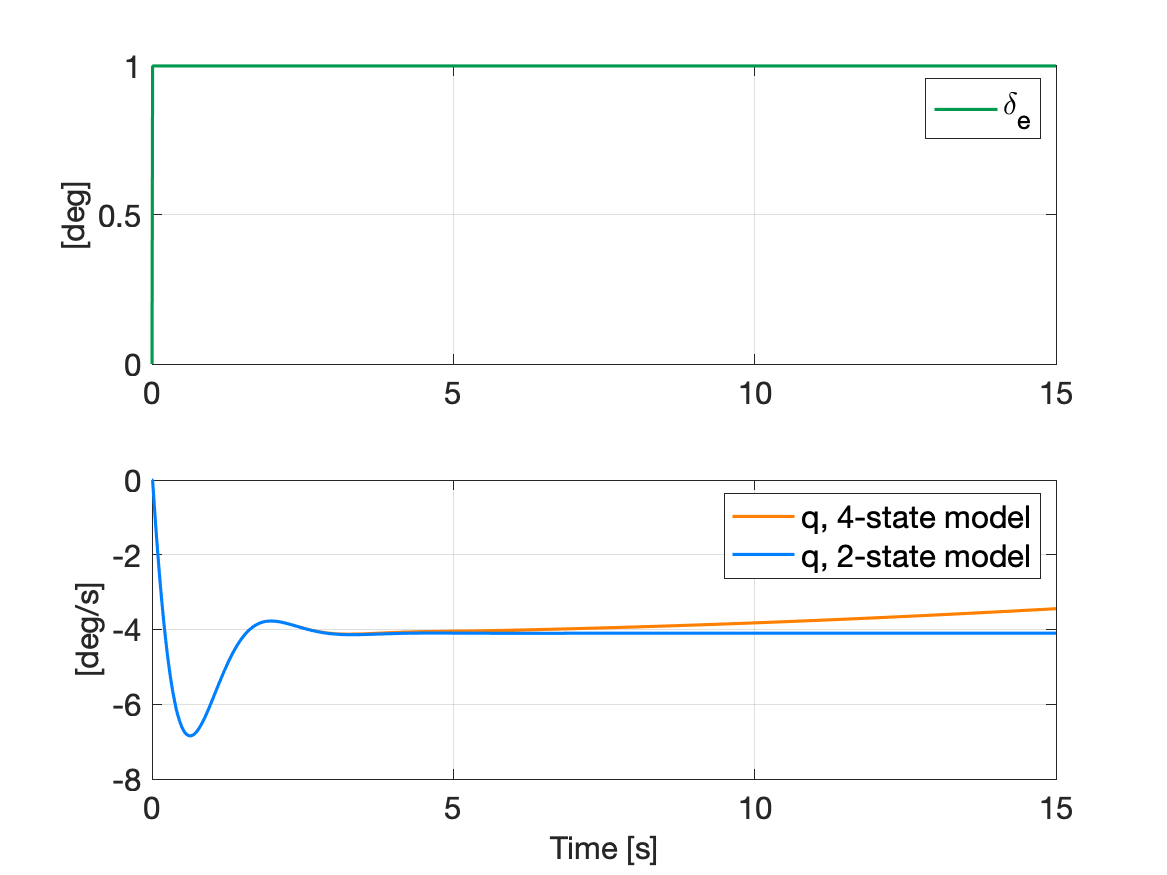
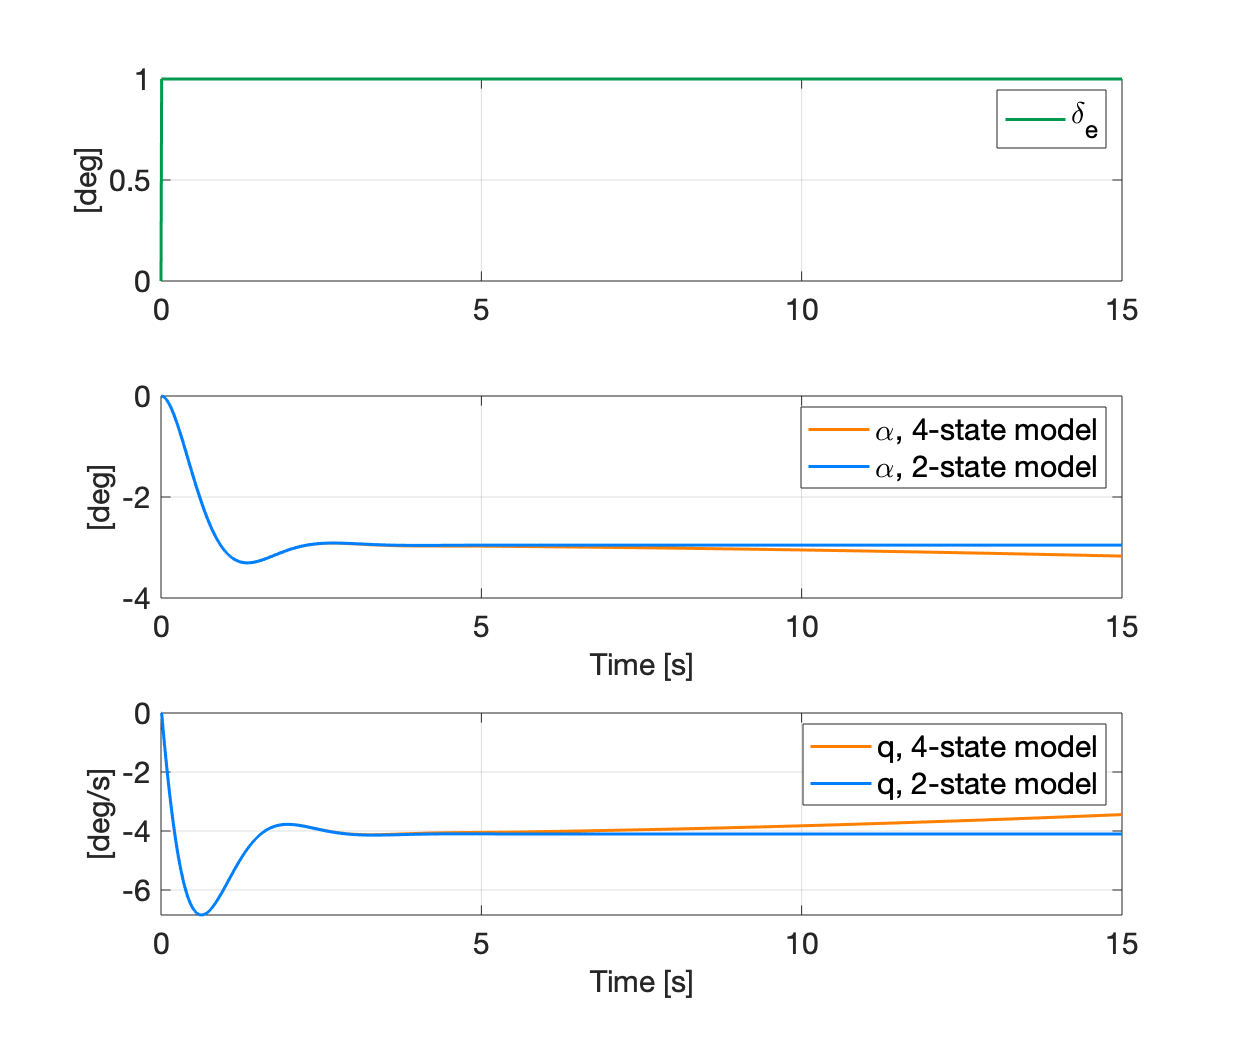
added aoa comparison Q7

diff --git a/F16Sim/FindF16Dynamics_Q6-7.m b/F16Sim/FindF16Dynamics_Q6-7.m
@@ -265,7 +265,7 @@ D_shortp = D_ac_long([2 4], [1]);
 
 SS_shortp = (1)*ss(A_shortp,B_shortp,C_shortp,D_shortp);
 
-%% Time response comparison
+% Time response comparison
 
 dt = 0.01;
 t_max = 15;
@@ -275,7 +275,7 @@ y_long = lsim(SS_ac_long,u_elevator,t);
 y_long_simplified = lsim(SS_shortp,u_elevator,t);
 
 figure(7)
-subplot(2,1,1);
+subplot(3,1,1);
 plot(t,u_elevator,'LineWidth',1.5,'Color',[0 0.6 0.3])
 ylabel({'[deg]'});
 set(legend,'FontName','Helvetica','Location','Northeast');
@@ -285,7 +285,7 @@ set(findall(gcf,'-property','FontSize'),'FontSize',15)
 xlim([0 t_max]);
 
 
-subplot(2,1,2);
+subplot(3,1,3);
 plot(t,y_long(:,[4]),'LineWidth',1.5,'color',[1 0.5 0])
 hold on 
 plot(t,y_long_simplified(:,2),'LineWidth',1.5,'color',[0 0.5 1])
@@ -296,6 +296,20 @@ set(legend,'FontName','Helvetica','Location','Northeast');
 legend('q, 4-state model','q, 2-state model');
 xlim([0 t_max]);
 set(findall(gcf,'-property','FontSize'),'FontSize',15)
+
+
+subplot(3,1,2);
+plot(t,y_long(:,[2]),'LineWidth',1.5,'color',[1 0.5 0])
+hold on 
+plot(t,y_long_simplified(:,1),'LineWidth',1.5,'color',[0 0.5 1])
+grid on
+xlabel('Time [s]');
+ylabel('[deg]');
+set(legend,'FontName','Helvetica','Location','Northeast');
+legend('\alpha, 4-state model','\alpha, 2-state model');
+xlim([0 t_max]);
+set(findall(gcf,'-property','FontSize'),'FontSize',15)
+
 
 saveas(figure(7),'Plots\comparison-2st-4st.png')
 %%
